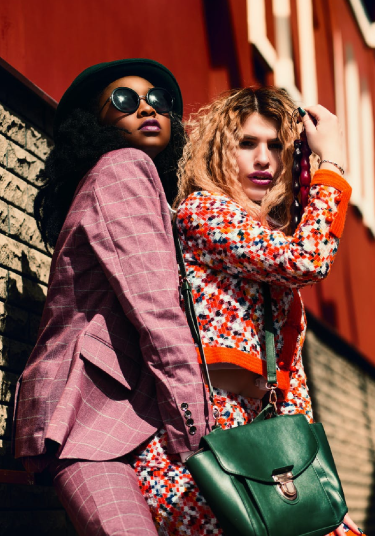
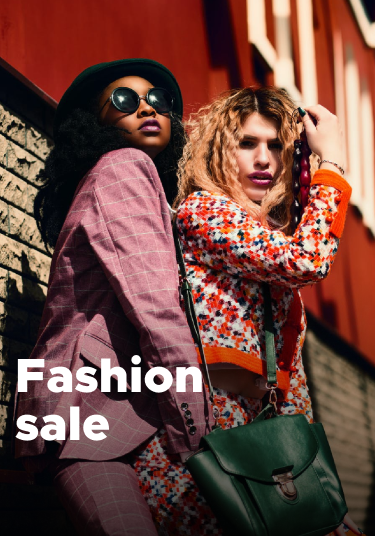
added basic home designs

Changed region(s): [[0.0, 0.597, 1.0, 1.0]]

diff --git a/lib/features/main/home/view/home_page_view3.dart b/lib/features/main/home/view/home_page_view3.dart
@@ -1,3 +1,7 @@
+import 'package:ecommerce/core/constants/assets/assets_manager.dart';
+import 'package:ecommerce/core/extensions/context_extension.dart';
+import 'package:ecommerce/core/init/color/color_manager.dart';
+import 'package:ecommerce/core/init/styles/styles_manager.dart';
 import 'package:flutter/material.dart';
 
 class HomePageView3 extends StatefulWidget {
@@ -10,8 +14,92 @@ class HomePageView3 extends StatefulWidget {
 class _HomePageView3State extends State<HomePageView3> {
   @override
   Widget build(BuildContext context) {
-    return const Center(
-      child: Text('HOMEVIEW2'),
+    var width = MediaQuery.of(context).size.width;
+    var height = MediaQuery.of(context).size.height;
+
+    debugPrint(width.toString() + "   " + height.toString());
+
+    return SafeArea(
+      child: ListView(
+        children: [
+          SizedBox(
+            height: context.dynamicHeight(0.91),
+            child: Column(
+              children: [
+                const Expanded(
+                  child: Image(
+                    image: AssetImage(
+                      ImageAssets.home3,
+                    ),
+                    fit: BoxFit.fill,
+                  ),
+                ),
+                Expanded(
+                  child: Row(
+                    children: [
+                      Expanded(
+                        child: Column(
+                          children: [
+                            const Spacer(
+                              flex: 1,
+                            ),
+                            Expanded(
+                              flex: 49,
+                              child: Container(
+                                width: double.maxFinite,
+                                color: ColorManager.white,
+                                child: Padding(
+                                  padding: const EdgeInsets.only(left: 18.0),
+                                  child: Column(
+                                    mainAxisAlignment: MainAxisAlignment.center,
+                                    crossAxisAlignment:
+                                        CrossAxisAlignment.start,
+                                    children: [
+                                      Text(
+                                        'Summer',
+                                        style: getRegularStyle(
+                                                color: ColorManager.primary)
+                                            .copyWith(fontSize: 34),
+                                      ),
+                                      Text(
+                                        'sale',
+                                        style: getRegularStyle(
+                                                color: ColorManager.primary)
+                                            .copyWith(fontSize: 34),
+                                      ),
+                                    ],
+                                  ),
+                                ),
+                              ),
+                            ),
+                            const Expanded(
+                              flex: 50,
+                              child: Image(
+                                image: AssetImage(
+                                  ImageAssets.home4,
+                                ),
+                                fit: BoxFit.fill,
+                              ),
+                            ),
+                          ],
+                        ),
+                      ),
+                      const Expanded(
+                        child: Image(
+                          image: AssetImage(
+                            ImageAssets.home5,
+                          ),
+                          fit: BoxFit.fill,
+                        ),
+                      ),
+                    ],
+                  ),
+                ),
+              ],
+            ),
+          ),
+        ],
+      ),
     );
   }
 }

diff --git a/lib/features/main/home/view/home_page_view1.dart b/lib/features/main/home/view/home_page_view1.dart
@@ -1,11 +1,10 @@
 import 'package:ecommerce/core/constants/assets/assets_manager.dart';
-import 'package:ecommerce/core/init/color/color_manager.dart';
-import 'package:ecommerce/core/init/styles/styles_manager.dart';
+import 'package:ecommerce/core/extensions/context_extension.dart';
 import 'package:ecommerce/core/widget/auth_elevated_button.dart';
 import 'package:flutter/material.dart';
 
 class HomePageView1 extends StatefulWidget {
-  const HomePageView1({ Key? key }) : super(key: key);
+  const HomePageView1({Key? key}) : super(key: key);
 
   @override
   _HomePageView1State createState() => _HomePageView1State();
@@ -14,42 +13,35 @@ class HomePageView1 extends StatefulWidget {
 class _HomePageView1State extends State<HomePageView1> {
   @override
   Widget build(BuildContext context) {
-     return Stack(
+    return ListView(
       children: [
-        Positioned(
-          top: -44.0,
-          child: SizedBox(
-            width: MediaQuery.of(context).size.width,
-            child: Image.asset(ImageAssets.home, fit: BoxFit.contain),
-          ),
-        ),
-        Positioned(
-          top: 310,
-          child: Padding(
-            padding: const EdgeInsets.only(left: 15.0, bottom: 18.0),
-            child: Column(
-              crossAxisAlignment: CrossAxisAlignment.start,
-              children: [
-                Text(
-                  'Fashion',
-                  style: getBoldStyle(color: ColorManager.white)
-                      .copyWith(fontSize: 48),
+        SizedBox(
+          height: context.dynamicHeight(0.66),
+          child: Stack(
+            children: [
+              const Positioned(
+                left: 0,
+                right: 0,
+                child: Image(
+                  image: AssetImage(
+                    ImageAssets.home,
+                  ),
+                  fit: BoxFit.fill,
                 ),
-                Text(
-                  'sale',
-                  style: getBoldStyle(color: ColorManager.white)
-                      .copyWith(fontSize: 48),
-                ),
-                AuthElevatedButton(
-                  height: 36,
-                  width: 160,
+              ),
+              Positioned(
+                left: context.dynamicWidth(0.046),
+                top: context.dynamicHeight(0.54),
+                child: AuthElevatedButton(
+                  height: context.dynamicHeight(0.01),
+                  width: context.dynamicWidth(0.38),
                   title: 'Check',
                   onPressed: () {},
-                )
-              ],
-            ),
+                ),
+              ),
+            ],
           ),
-        )
+        ),
       ],
     );
   }

diff --git a/lib/features/main/home/view/home_page_view2.dart b/lib/features/main/home/view/home_page_view2.dart
@@ -1,7 +1,10 @@
+import 'package:ecommerce/core/constants/assets/assets_manager.dart';
+import 'package:ecommerce/core/init/color/color_manager.dart';
+import 'package:ecommerce/core/init/styles/styles_manager.dart';
 import 'package:flutter/material.dart';
 
 class HomePageView2 extends StatefulWidget {
-  const HomePageView2({ Key? key }) : super(key: key);
+  const HomePageView2({Key? key}) : super(key: key);
 
   @override
   _HomePageView2State createState() => _HomePageView2State();
@@ -10,8 +13,34 @@ class HomePageView2 extends StatefulWidget {
 class _HomePageView2State extends State<HomePageView2> {
   @override
   Widget build(BuildContext context) {
-    return const Center(
-        child: Text('HOMEVIEW2'),
+    return Stack(
+      children: [
+        Positioned(
+          top: 0,
+          child: Container(
+            height: 260,
+            width: MediaQuery.of(context).size.width,
+            decoration: const BoxDecoration(
+              image: DecorationImage(
+                  image: AssetImage(
+                    ImageAssets.home2,
+                  ),
+                  fit: BoxFit.contain),
+            ),
+          ),
+        ),
+        Positioned(
+          top: 158,
+          child: Padding(
+            padding: const EdgeInsets.only(left: 21.0, bottom: 18.0),
+            child: Text(
+              'Street clothes',
+              style: getBoldStyle(color: ColorManager.white)
+                  .copyWith(fontSize: 34),
+            ),
+          ),
+        )
+      ],
     );
   }
 }

diff --git a/lib/core/constants/assets/assets_manager.dart b/lib/core/constants/assets/assets_manager.dart
@@ -8,7 +8,10 @@ class ImageAssets {
   static const String googleSvg = '$IMAGE_PATH/google.svg';
   static const String facebookSvg = '$IMAGE_PATH/facebook.svg';
   static const String home = '$IMAGE_PATH/home.png';
-
+  static const String home2 = '$IMAGE_PATH/home2.png';
+  static const String home3 = '$IMAGE_PATH/home3.png';
+  static const String home4 = '$IMAGE_PATH/home4.png';
+  static const String home5 = '$IMAGE_PATH/home5.png';
 }
 
 class JsonAssets {

diff --git a/lib/features/main/home/view/home_page_view_main.dart b/lib/features/main/home/view/home_page_view_main.dart
@@ -21,7 +21,7 @@ class _HomePageViewState extends State<HomePageView> {
 
   _randomPage() {
     int min = 0;
-    int max = 2;
+    int max = 3;
     rnd = Random();
     var r = min + rnd.nextInt(max - min);
     return r;
@@ -29,6 +29,7 @@ class _HomePageViewState extends State<HomePageView> {
 
   @override
   Widget build(BuildContext context) {
-    return pages[_randomPage()];
+    //return pages[_randomPage()];
+    return const HomePageView1();
   }
 }

diff --git a/lib/core/init/theme/theme_manager.dart b/lib/core/init/theme/theme_manager.dart
@@ -61,11 +61,13 @@ ThemeData getLightTheme() {
       ),
     ),
     bottomNavigationBarTheme: BottomNavigationBarThemeData(
+
       type: BottomNavigationBarType.fixed,
       backgroundColor: ColorManager.white,
       selectedItemColor: ColorManager.primary,
       unselectedItemColor: ColorManager.grey,
     ),
+    
   );
 }
 

diff --git a/lib/features/main/view/main_view.dart b/lib/features/main/view/main_view.dart
@@ -32,6 +32,7 @@ class _MainViewState extends State<MainView> {
         borderRadius: const BorderRadius.only(
             topLeft: Radius.circular(12), topRight: Radius.circular(12)),
         child: BottomNavigationBar(
+          iconSize: 30,
           onTap: onTap,
           currentIndex: _currentIndex,
           items: [
